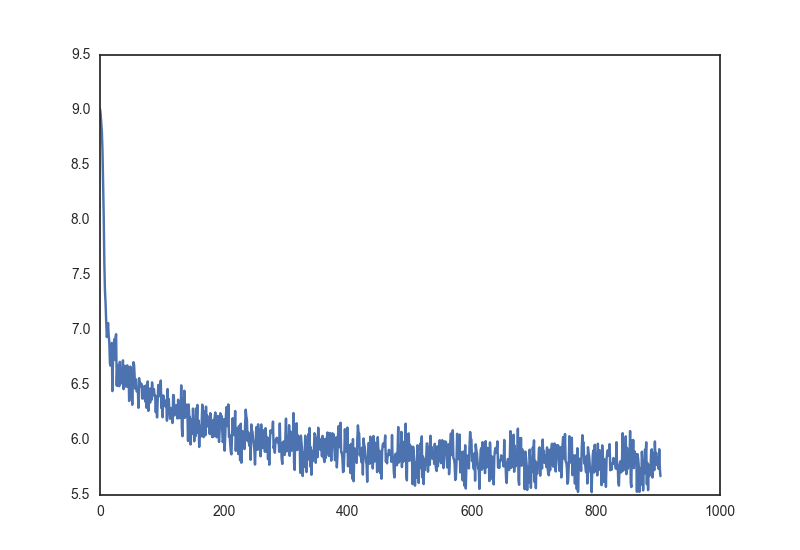
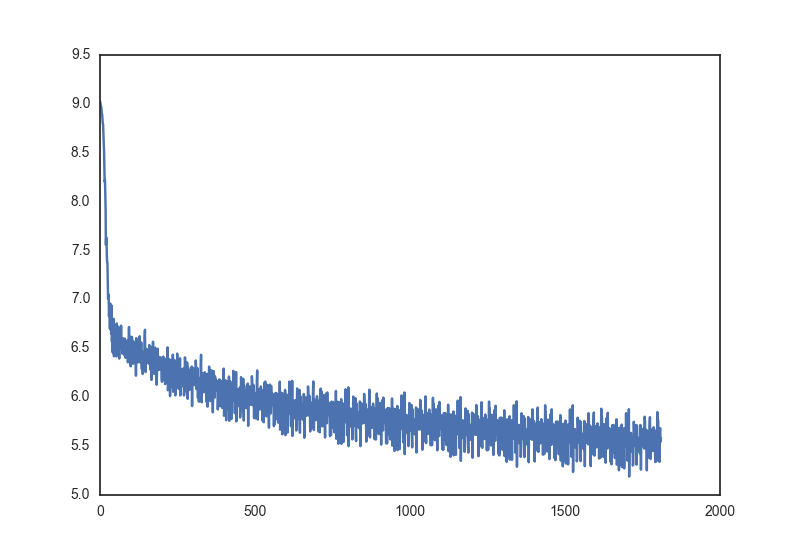
minor change

diff --git a/tensorflow-models/rnn_shakespeare_test.py b/tensorflow-models/rnn_shakespeare_test.py
@@ -123,6 +123,6 @@ if __name__ == '__main__':
                                sess=sess)
     with tf.variable_scope(tf.get_variable_scope(), reuse=True):
         sample_model = RNNLangModel(n_hidden=128, n_layers=1, vocab_size=vocab_size, seq_len=1, sess=sess)
-    log = train_model.fit(X, y, n_epoch=5, batch_size=batch_size,
+    log = train_model.fit(X, y, n_epoch=10, batch_size=batch_size, en_exp_decay=False,
                           sample_pack=(sample_model, idx2word, word2idx, 10, prime_texts))
     plot(log)
